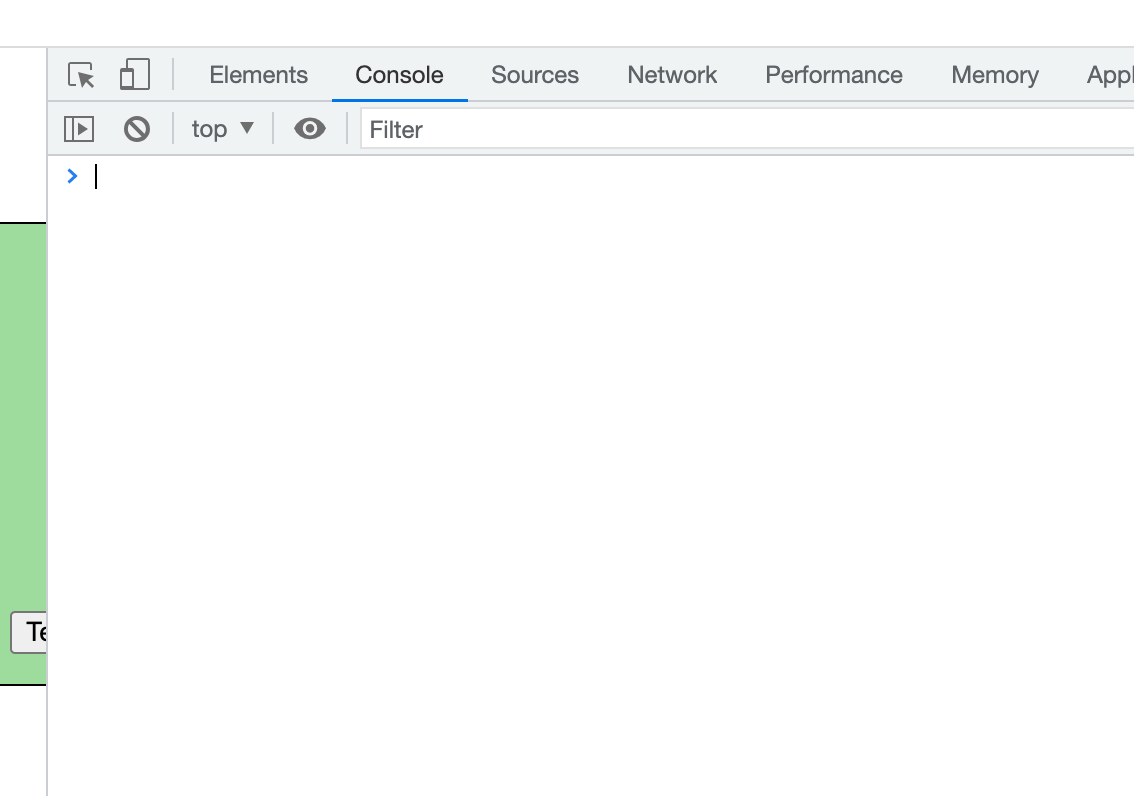
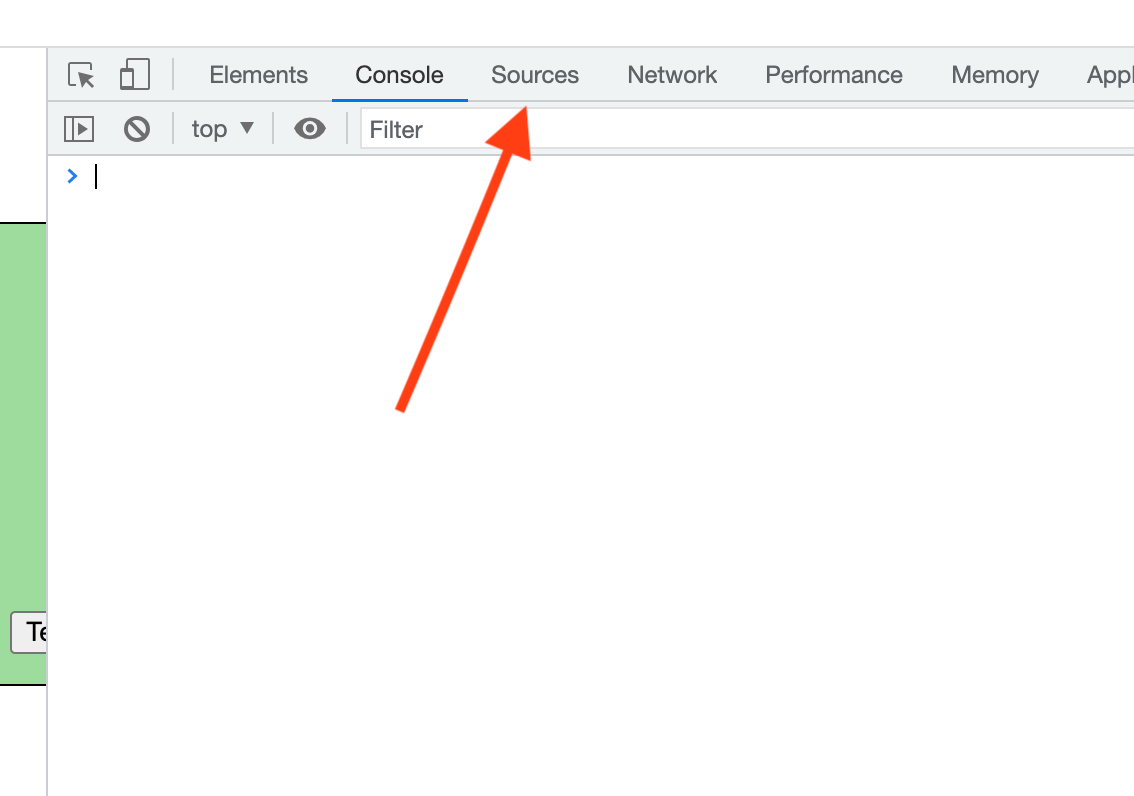
create tutorial for debugger

Changed region(s): [[0.3704, 0.2412, 0.4321, 0.4523], [0.4321, 0.1206, 0.4938, 0.2412], [0.3395, 0.4523, 0.3704, 0.5126]]

diff --git a/errors.html b/errors.html
@@ -5,7 +5,11 @@
 </head>
 <body>
   <a href="./home.html"><h3>Home</h3></a>
-  <h1>The Chrome Debugger</h1>
+  <h1>The 
+    <a href="https://developer.chrome.com/docs/devtools/javascript/reference/" target=”_blank”>
+      Chrome Debugger
+    </a>
+  </h1>
   <div class="lesson-section">
     <p>
       The Chrome browser includes a variety of useful tools. Here now begin to explore them in more detail.
@@ -40,6 +44,34 @@
       Now, click the "test code" button for the callback section. This will run "doArithmetic". You'll see the following:
     </p>
     <img src="./images/debugger_7.png">
+    <p>
+      There's a lot of information here. We'll start from the top. We'll start with the controls that allow the debugger to walk through your code. (These aren't in order.)
+    </p>
+    <img src="./images/debugger_8.png">
+    <ul>
+      <li>
+        "Continue" - This button tells the debugger to return to running code "normally". You may notice that if you press it, you suddenly find the debugger
+        will re-open again in the exact same spot. This happens because the "breakpoint" is getting reached more than once: every time your function is called it will be hit.
+      </li>
+      <li>
+        "Step" - This allows us to walk through the our code step-by-step. Using this button, we're following code exactly as it runs.
+      </li>
+      <li>
+        "Step Out" - You'll understand what this does better once you have an understanding of what a "call stack" is. The short version: it pops the debugger out into the function that called the current one.
+        In this case, the test file I created is the one calling your "doArithmetic" function. If you hit this button that's where you'll end up.
+      </li>
+      <li>
+        "Step In" - Opposite of the above.
+      </li>
+      <li>
+        "Step Over" - Functionally this is very similar to "step" with one caveat: it won't dive into functions as they're called. (Try this with cb1 & cb2 to see what I mean.)
+      </li>
+    </ul>
+    <p>
+      The next feature we'll take a look at is "Watch" or "Watch Variable". This feature is actually fairly simple: all it does is help us keep track of specific variables as we're debugging the system.
+      Using it is simple: give it the name of a variable, and it will display the value of any variables with that name that exists in the currenct context.
+      Click the "+" symbol, enter a variable name (for example "someNum" or "result") and hit enter.
+    </p>
     <pre>
     </pre>
     <div class="code-exercise-section">

diff --git a/styles/exercises.css b/styles/exercises.css
@@ -6,6 +6,10 @@ body {
   padding: 20px;
 }
 
+a {
+  text-decoration: none;
+}
+
 h4 {
   margin: 0;
 }
